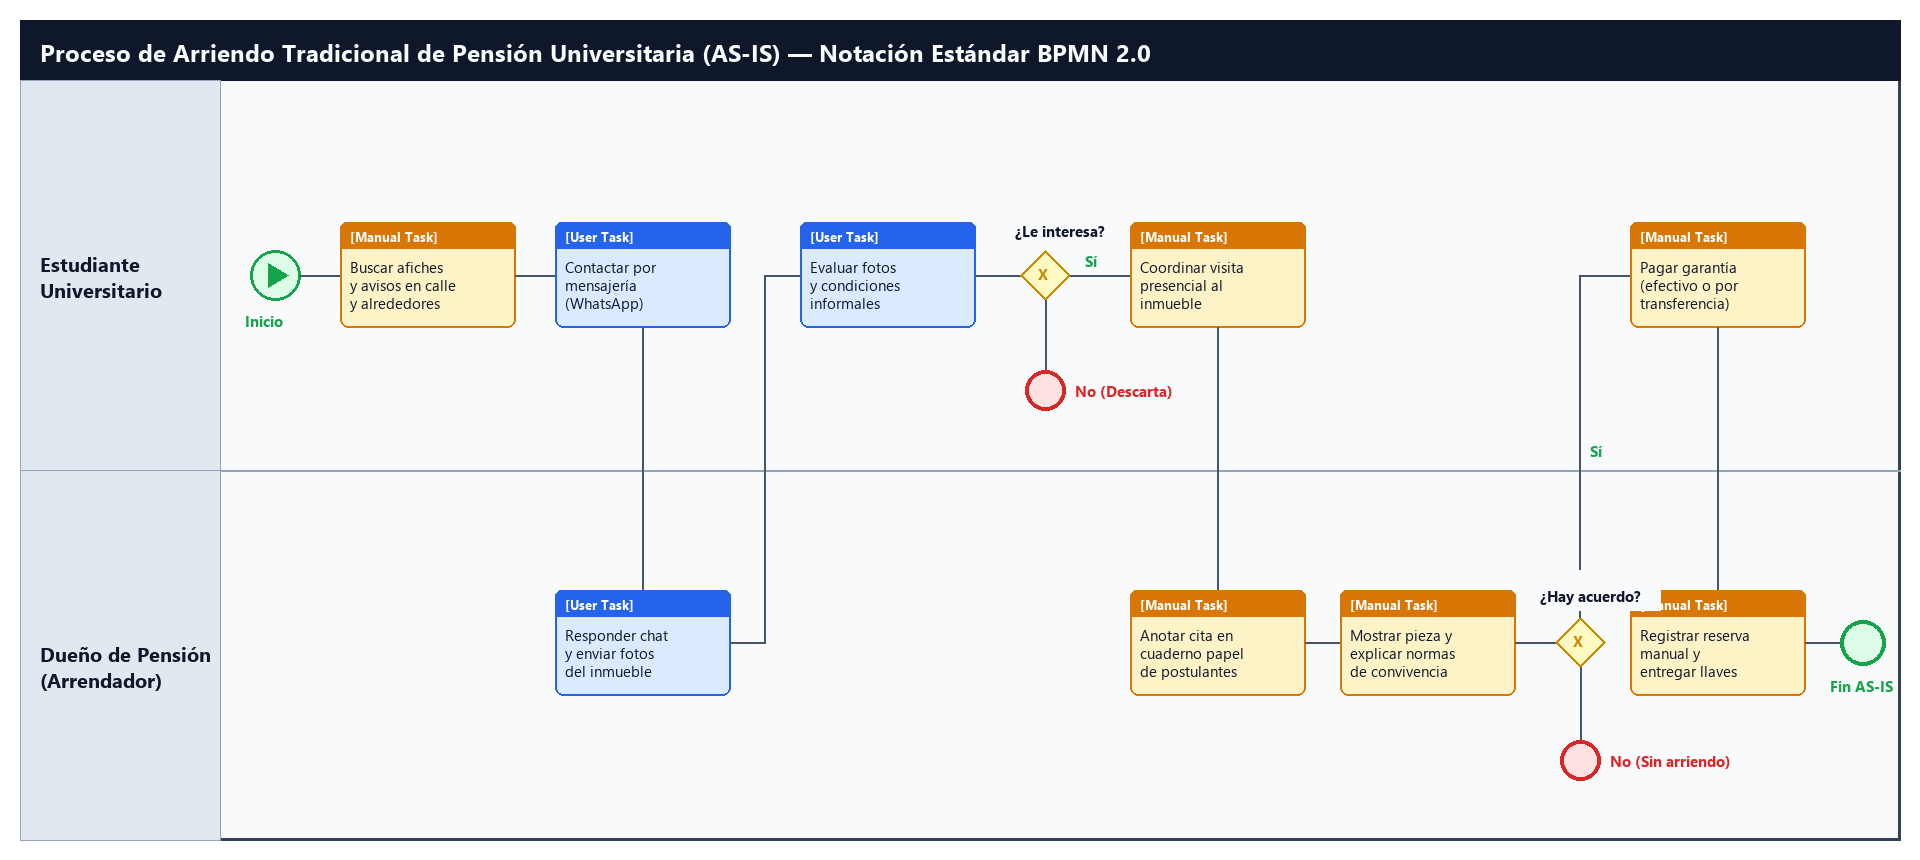
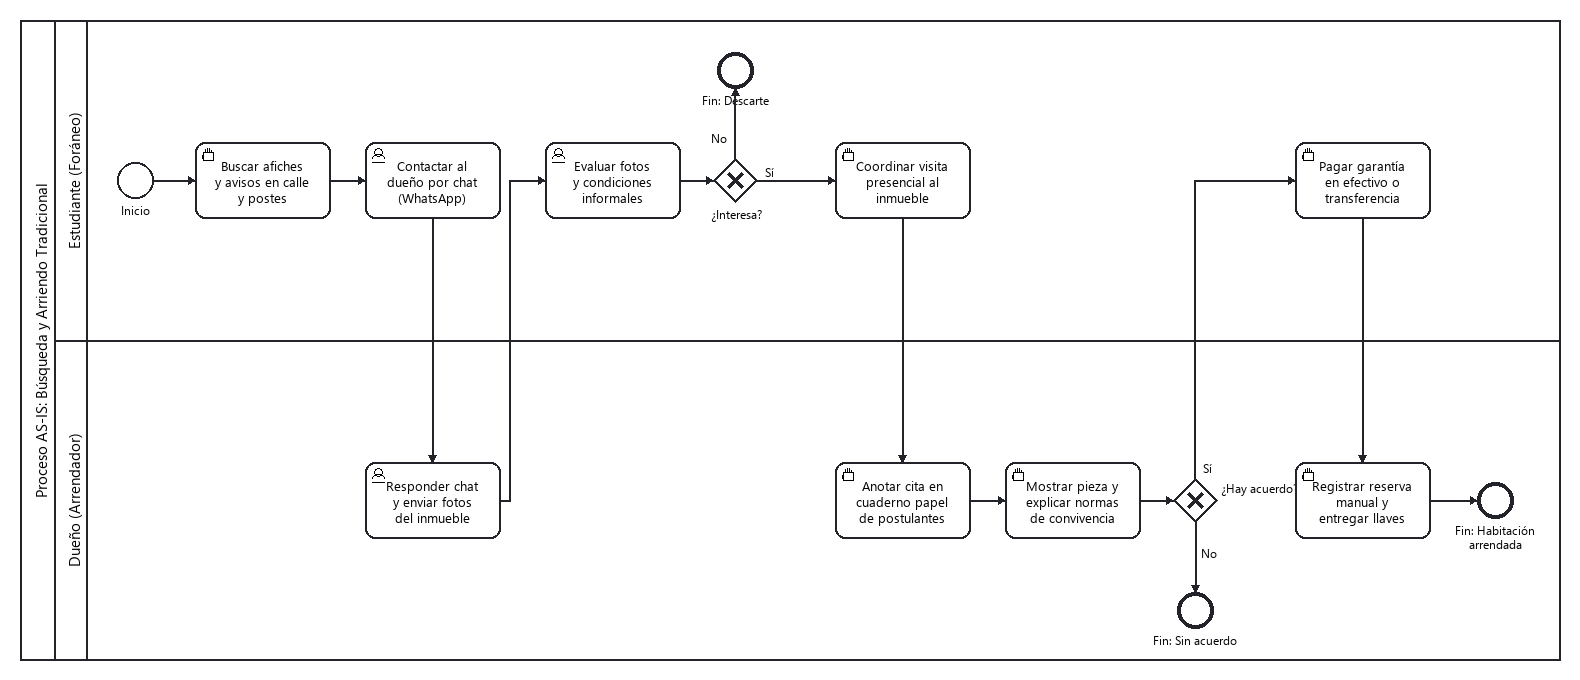
feat(bpmn): update AS-IS and TO-BE diagrams to official Camunda/bpmn-js monochrome style and align traceability

diff --git a/02-rediseno-to-be.md b/02-rediseno-to-be.md
@@ -32,18 +32,16 @@
 ![Proceso TO-BE](./diagramas/to-be.png)
 Archivo fuente: [`./diagramas/to-be.bpmn`](./diagramas/to-be.bpmn)
 
-*Nota: Las tareas del proceso TO-BE distinguen rigurosamente los tres tipos de marcadores BPMN 2.0:*
-- **User Task (Tarea de Usuario)**: *Ingresar datos de la pensión y cargar fotografías*, *Filtrar pensiones por universidad, precio y servicios*, *Completar y enviar solicitud formal de reserva*, *Evaluar perfil del postulante y responder solicitud*.
-- **Service Task (Tarea de Servicio)**: *Validar consistencia de datos y georreferenciar dirección*, *Publicar oferta en catálogo y mapa interactivo*, *Calcular distancias peatonales y presentar opciones*, *Verificar perfil estudiantil y despachar notificación al dueño*, *Notificar rechazo con motivo al estudiante*, *Confirmar reserva y emitir comprobante digital*.
-- **Manual Task (Tarea Manual)**: *Realizar check-in presencial y entrega de llaves*.
+*Nota: Las tareas del proceso TO-BE distinguen rigurosamente los marcadores estándar BPMN 2.0 (estilo Camunda / bpmn-js en blanco y negro):*
+- **User Task (Tarea de Usuario — ícono de persona)**: *Buscar pensión y aplicar filtros*, *Enviar solicitud de reserva*, *Revisar solicitud y perfil en la app*, *Rechazar solicitud*, *Aprobar solicitud de reserva*, *Ver opciones alternativas sugeridas*, *Recibir confirmación y coordinar llegada por chat*.
+- **Service Task (Tarea de Servicio — ícono de engranajes)**: *Consultar y cargar catálogo en tiempo real*, *Generar notificación push de solicitud*, *Actualizar estado y disparar alerta*, *Bloquear fechas y emitir ficha de confirmación*.
 
 ## Actividades que cambian del AS-IS al TO-BE
 | Actividad en el AS-IS | Actividad en el TO-BE | Qué cambia |
 |---|---|---|
-| Buscar afiches y avisos en inmediaciones universitarias | Filtrar pensiones por universidad, precio y servicios | Se sustituye la búsqueda física aleatoria por un motor de búsqueda digital centralizado con filtros de distancia a campus, rango de precio y servicios. |
-| Contactar al dueño por mensajería (WhatsApp) | Publicar oferta en catálogo y mapa interactivo | El arrendador no responde individualmente por chat a cada postulante; publica una oferta visible globalmente en un catálogo geolocalizado. |
-| Evaluar fotografías y condiciones informales | Calcular distancias peatonales y presentar opciones | El sistema calcula automáticamente la cercanía real y tiempos de traslado hacia la facultad del estudiante, eliminando la ambigüedad geográfica. |
-| Coordinar visita presencial al inmueble | Completar y enviar solicitud formal de reserva | El estudiante postula formalmente mediante un formulario estructurado con sus antecedentes universitarios en lugar de coordinaciones informales de palabra. |
-| Anotar cita de visita en cuaderno de postulantes | Verificar perfil estudiantil y despachar notificación al dueño | Se reemplaza la anotación manual en cuaderno por una validación de datos del alumno y una notificación automatizada directa al propietario. |
-| Mostrar habitación y explicar normas de convivencia | Evaluar perfil del postulante y responder solicitud | El dueño visualiza la información de los postulantes en su bandeja de entrada y aprueba o rechaza antes de concretar la visita final, evitando pérdidas de tiempo. |
-| Efectuar pago en efectivo o transferencia de garantía | Confirmar reserva y emitir comprobante digital | La formalización de la reserva genera un comprobante digital auditable en la plataforma, evitando pagos informales en efectivo sin respaldo legal. |
+| Buscar afiches y avisos en calle y postes | Buscar pensión y aplicar filtros | Se sustituye la búsqueda física informal por una consulta parametrizada con filtros por universidad, precio y servicios. |
+| Contactar al dueño por chat (WhatsApp) | Consultar y cargar catálogo en tiempo real | El estudiante visualiza al instante el catálogo digital actualizado en vez de preguntar disponibilidad por mensaje privado. |
+| Coordinar visita presencial al inmueble | Enviar solicitud de reserva | La postulación se formaliza mediante una solicitud digital estructurada con datos de alumno regular en lugar de citas informales. |
+| Anotar cita en cuaderno de postulantes | Generar notificación push de solicitud | El sistema notifica de forma inmediata y automática al dueño en su dispositivo cuando ingresa una postulación. |
+| Mostrar pieza y explicar normas de convivencia | Revisar solicitud y perfil en la app | El arrendador revisa previamente los antecedentes del estudiante en la plataforma antes de comprometer cupos. |
+| Efectuar pago en efectivo o transferencia de garantía | Bloquear fechas y emitir ficha de confirmación | El sistema bloquea automáticamente la habitación y emite un comprobante digital auditable para ambas partes. |

diff --git a/03-requisitos.md b/03-requisitos.md
@@ -3,15 +3,15 @@
 ## Requisitos de producto
 | ID | Requisito | Tipo (funcional/no funcional) | Actividad TO-BE asociada |
 |---|---|---|---|
-| RP-01 | El sistema debe permitir a los usuarios estudiantes filtrar ofertas de pensiones según universidad de destino, presupuesto mensual máximo y servicios incluidos (agua, luz, gas, internet). | Funcional | Filtrar pensiones por universidad, precio y servicios |
-| RP-02 | El sistema debe responder a las consultas de filtrado y búsqueda de pensiones en un tiempo máximo de 1.5 segundos bajo condiciones normales de carga de red. | No funcional | Filtrar pensiones por universidad, precio y servicios |
-| RP-03 | El sistema debe permitir a los propietarios registrar una pensión ingresando título, descripción, dirección física, precio mensual, monto de garantía y fotografías obligatorias (mínimo 3). | Funcional | Publicar oferta en catálogo y mapa interactivo |
-| RP-04 | El sistema debe calcular automáticamente y mostrar la distancia peatonal estimada (en metros y minutos a pie) entre la pensión seleccionada y el campus universitario de referencia. | Funcional | Calcular distancias peatonales y presentar opciones |
-| RP-05 | El sistema debe permitir a los estudiantes autenticados enviar una solicitud formal de arriendo adjuntando mensaje de presentación y seleccionando la habitación de interés. | Funcional | Completar y enviar solicitud formal de reserva |
-| RP-06 | El sistema debe validar que el solicitante cuente con un correo institucional activo (`.edu` o dominio universitario reconocido) antes de remitir la solicitud al dueño. | Funcional | Verificar perfil estudiantil y despachar notificación al dueño |
-| RP-07 | El sistema debe disponer de una bandeja de gestión para el arrendador donde pueda visualizar las solicitudes recibidas y marcar su estado como "Aceptada" o "Rechazada" junto a un comentario opcional. | Funcional | Evaluar perfil del postulante y responder solicitud |
-| RP-08 | El sistema debe generar y almacenar un comprobante digital en formato descargable con identificador único de reserva cuando una solicitud sea aprobada por el arrendador. | Funcional | Confirmar reserva y emitir comprobante digital |
-| RP-09 | El sistema debe proteger los datos personales de contacto de ambas partes (teléfono y correo personal), haciéndolos visibles únicamente tras la aprobación de la solicitud de arriendo. | No funcional | Confirmar reserva y emitir comprobante digital |
+| RP-01 | El sistema debe permitir a los usuarios estudiantes filtrar ofertas de pensiones según universidad de destino, presupuesto mensual máximo y servicios incluidos (agua, luz, gas, internet). | Funcional | Buscar pensión y aplicar filtros |
+| RP-02 | El sistema debe responder a las consultas de filtrado y búsqueda de pensiones en un tiempo máximo de 1.5 segundos bajo condiciones normales de carga de red. | No funcional | Buscar pensión y aplicar filtros |
+| RP-03 | El sistema debe consultar la base de datos y cargar en tiempo real el catálogo de pensiones disponibles junto con la distancia calculada al campus de estudio. | Funcional | Consultar y cargar catálogo en tiempo real |
+| RP-04 | El sistema debe calcular automáticamente y mostrar la distancia peatonal estimada (en metros y minutos a pie) entre la pensión seleccionada y el campus universitario de referencia. | Funcional | Consultar y cargar catálogo en tiempo real |
+| RP-05 | El sistema debe permitir a los estudiantes autenticados enviar una solicitud formal de reserva adjuntando mensaje de presentación y seleccionando la habitación de interés. | Funcional | Enviar solicitud de reserva |
+| RP-06 | El sistema debe generar y despachar una notificación push automática al arrendador cuando un estudiante envíe una solicitud de reserva. | Funcional | Generar notificación push de solicitud |
+| RP-07 | El sistema debe disponer de una bandeja de gestión para el arrendador donde pueda revisar la solicitud y el perfil del postulante, permitiendo aprobar o rechazar con un motivo. | Funcional | Revisar solicitud y perfil en la app |
+| RP-08 | El sistema debe bloquear automáticamente las fechas de la habitación seleccionada y emitir una ficha de confirmación de reserva descargable al ser aprobada. | Funcional | Bloquear fechas y emitir ficha de confirmación |
+| RP-09 | El sistema debe proteger los datos personales de contacto de ambas partes (teléfono y correo personal), haciéndolos visibles únicamente tras la aprobación de la solicitud de reserva. | No funcional | Bloquear fechas y emitir ficha de confirmación |
 
 ## Requisitos de proyecto
 | ID | Requisito |

diff --git a/01-proceso-as-is.md b/01-proceso-as-is.md
@@ -1,27 +1,33 @@
 # Proceso de negocio — AS-IS
 
 ## Macro-proceso y proceso específico
+
 Gestión Habitacional Universitaria → Búsqueda y Arriendo Tradicional de Pensión Universitaria
 
 ## Objetivo de negocio del proceso
+
 Permitir que un estudiante universitario foráneo encuentre, evalúe y asegure una habitación en pensión para el periodo académico, y que el dueño del inmueble logre ocupar sus habitaciones disponibles asegurando el pago mensual de arriendo.
 
 ## Participantes y sus objetivos
-| Participante | Objetivo en el proceso |
-|---|---|
-| Estudiante Universitario | Encontrar un alojamiento seguro, asequible y cercano a su sede de estudio antes del inicio del semestre académico. |
-| Dueño de Pensión (Arrendador) | Ocupar las piezas desocupadas con postulantes universitarios responsables y asegurar el cobro puntual del arriendo y garantía. |
+
+| Participante             | Objetivo en el proceso                                                                                                         |
+| ------------------------ | ------------------------------------------------------------------------------------------------------------------------------ |
+| Estudiante Universitario | Encontrar un alojamiento seguro, asequible y cercano a su sede de estudio antes del inicio del semestre académico.             |
+| Dueño de Pensión         | Ocupar las piezas desocupadas con postulantes universitarios responsables y asegurar el cobro puntual del arriendo y garantía. |
 
 ## Diagrama AS-IS
+
 ![Proceso AS-IS](./diagramas/as-is.png)
 Archivo fuente: [`./diagramas/as-is.bpmn`](./diagramas/as-is.bpmn)
 
-*Nota: Las tareas del diagrama distinguen explícitamente su tipología BPMN 2.0:*
-- **Manual Task (Tarea Manual)**: Ejecutada íntegramente por una persona sin soporte informático (*Buscar afiches y avisos en inmediaciones universitarias*, *Coordinar visita presencial al inmueble*, *Anotar cita de visita en cuaderno de postulantes*, *Mostrar habitación y explicar normas de convivencia*, *Efectuar pago en efectivo o transferencia de garantía*, *Registrar reserva manual y entregar llaves*).
-- **User Task (Tarea de Usuario)**: Ejecutada por una persona interactuando con herramientas informáticas genéricas (*Contactar al dueño por mensajería WhatsApp*, *Responder mensaje y enviar fotografías del inmueble*, *Evaluar fotografías y condiciones informales*).
-- **Service Task (Tarea de Servicio)**: En este flujo tradicional manual no intervienen servicios automatizados de negocio.
+_Nota: Las tareas del diagrama distinguen explícitamente su tipología estándar BPMN 2.0 (estilo Camunda / bpmn-js en blanco y negro):_
+
+- **Manual Task (Tarea Manual — ícono de mano)**: Ejecutada íntegramente por una persona sin soporte informático (_Buscar afiches y avisos en calle y postes_, _Coordinar visita presencial al inmueble_, _Anotar cita en cuaderno papel de postulantes_, _Mostrar pieza y explicar normas de convivencia_, _Pagar garantía en efectivo o transferencia_, _Registrar reserva manual y entregar llaves_).
+- **User Task (Tarea de Usuario — ícono de persona)**: Ejecutada por una persona interactuando con herramientas informáticas genéricas (_Contactar al dueño por chat (WhatsApp)_, _Responder chat y enviar fotos del inmueble_, _Evaluar fotos y condiciones informales_).
+- **Service Task (Tarea de Servicio — ícono de engranajes)**: En este flujo tradicional no intervienen servicios automáticos de negocio.
 
 ## Problemas identificados
+
 - **Dispersión y desactualización de la información**: El estudiante debe recorrer físicamente sectores aledaños a la universidad o revisar publicaciones informales en redes sociales sin saber si las piezas siguen realmente disponibles, provocando desgaste y pérdida de tiempo.
 - **Opacidad en tarifas y servicios incluidos**: Gran parte de los avisos informales no transparentan el costo de consumos básicos (agua, luz, gas, internet), generando disputas posteriores o cobros imprevistos para el estudiante.
 - **Riesgo de fraude y falta de verificación**: Ausencia de mecanismos para comprobar la veracidad de las fotos, las condiciones reales de habitabilidad y la titularidad del inmueble antes de pagar una reserva o garantía.

diff --git a/04-historias-usuario.md b/04-historias-usuario.md
@@ -3,7 +3,7 @@
 ## HU-01
 Como estudiante universitario foráneo, quiero filtrar las pensiones disponibles según el campus donde estudio y los servicios básicos incluidos (agua, luz, gas, internet), para encontrar rápidamente opciones habitacionales que se ajusten a mis necesidades sin tener que consultar aviso por aviso.
 
-**Actividad TO-BE asociada:** Filtrar pensiones por universidad, precio y servicios
+**Actividad TO-BE asociada:** Buscar pensión y aplicar filtros
 
 **Criterios de aceptación:**
 - CA1: El usuario puede seleccionar su institución y sede desde un selector desplegable o barra de búsqueda predictiva.
@@ -14,7 +14,7 @@ Como estudiante universitario foráneo, quiero filtrar las pensiones disponibles
 ## HU-02
 Como dueño de una pensión universitaria, quiero publicar el perfil de mi inmueble especificando precios, normas de convivencia y galería de fotos, para dar a conocer mi oferta de forma transparente a estudiantes interesados sin tener que enviar información manualmente por mensajes privados.
 
-**Actividad TO-BE asociada:** Publicar oferta en catálogo y mapa interactivo
+**Actividad TO-BE asociada:** Consultar y cargar catálogo en tiempo real
 
 **Criterios de aceptación:**
 - CA1: El formulario de publicación exige el ingreso de campos obligatorios: título, dirección exacta, precio mensual, monto de garantía y al menos 3 fotografías en formato PNG o JPG.
@@ -25,7 +25,7 @@ Como dueño de una pensión universitaria, quiero publicar el perfil de mi inmue
 ## HU-03
 Como estudiante universitario, quiero visualizar la distancia y el tiempo estimado de caminata desde la pensión hasta mi facultad, para tomar una decisión informada respecto a mi traslado diario y presupuesto de transporte.
 
-**Actividad TO-BE asociada:** Calcular distancias peatonales y presentar opciones
+**Actividad TO-BE asociada:** Consultar y cargar catálogo en tiempo real
 
 **Criterios de aceptación:**
 - CA1: La ficha detallada de la pensión exhibe un indicador destacado con la distancia en metros (o kilómetros) hacia la sede universitaria seleccionada.
@@ -35,7 +35,7 @@ Como estudiante universitario, quiero visualizar la distancia y el tiempo estima
 ## HU-04
 Como estudiante universitario postulante, quiero enviar una solicitud formal de reserva a través de la plataforma acreditando mi condición de alumno regular, para asegurar prioridad y seriedad en mi postulación frente al arrendador.
 
-**Actividad TO-BE asociada:** Completar y enviar solicitud formal de reserva
+**Actividad TO-BE asociada:** Enviar solicitud de reserva
 
 **Criterios de aceptación:**
 - CA1: La solicitud solo puede ser enviada por usuarios cuya cuenta haya sido validada previamente con correo institucional universitario activo.
@@ -46,7 +46,7 @@ Como estudiante universitario postulante, quiero enviar una solicitud formal de 
 ## HU-05
 Como dueño de pensión, quiero revisar en mi panel las solicitudes de los estudiantes postulantes y responder aceptando o rechazando cada caso con un motivo, para administrar de manera organizada y oportuna las vacantes de mis habitaciones.
 
-**Actividad TO-BE asociada:** Evaluar perfil del postulante y responder solicitud
+**Actividad TO-BE asociada:** Revisar solicitud y perfil en la app
 
 **Criterios de aceptación:**
 - CA1: La bandeja del dueño muestra un listado de solicitudes pendientes con nombre del estudiante, carrera, universidad y fecha de postulación.
